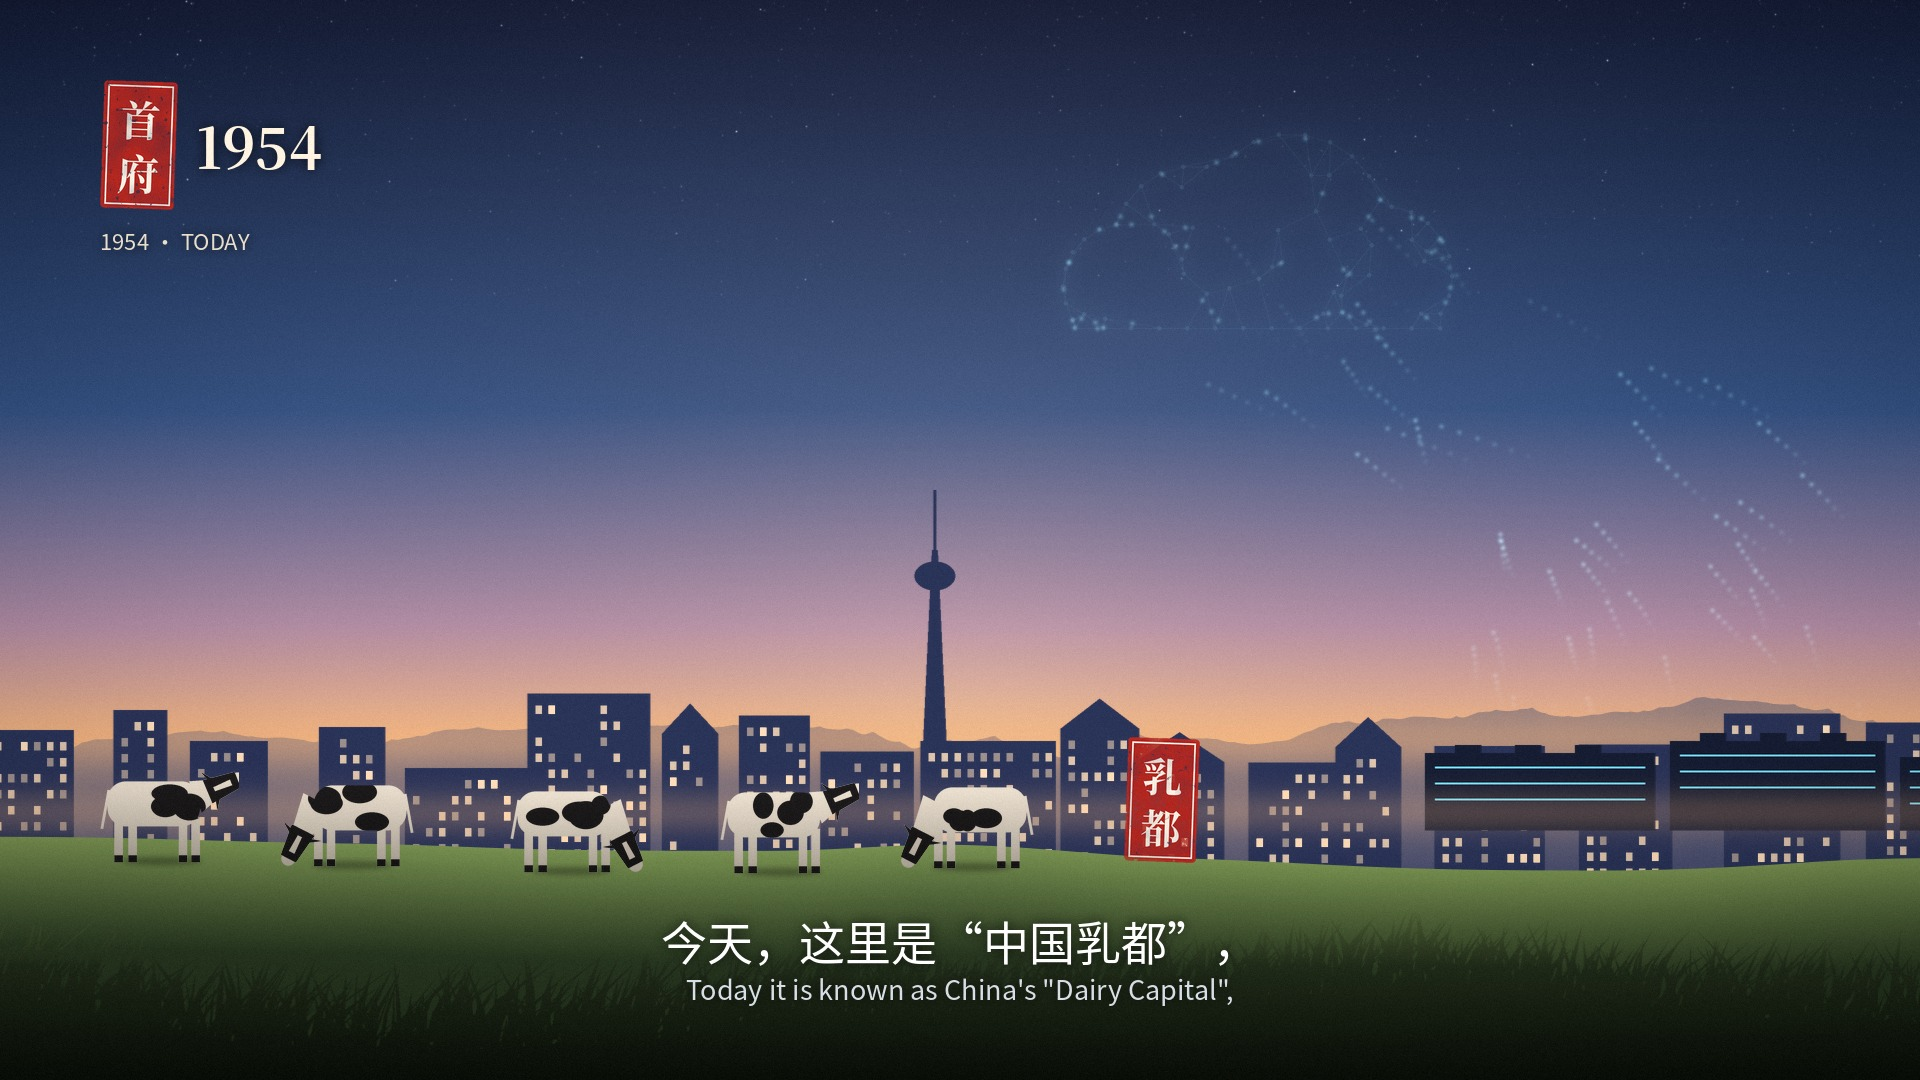
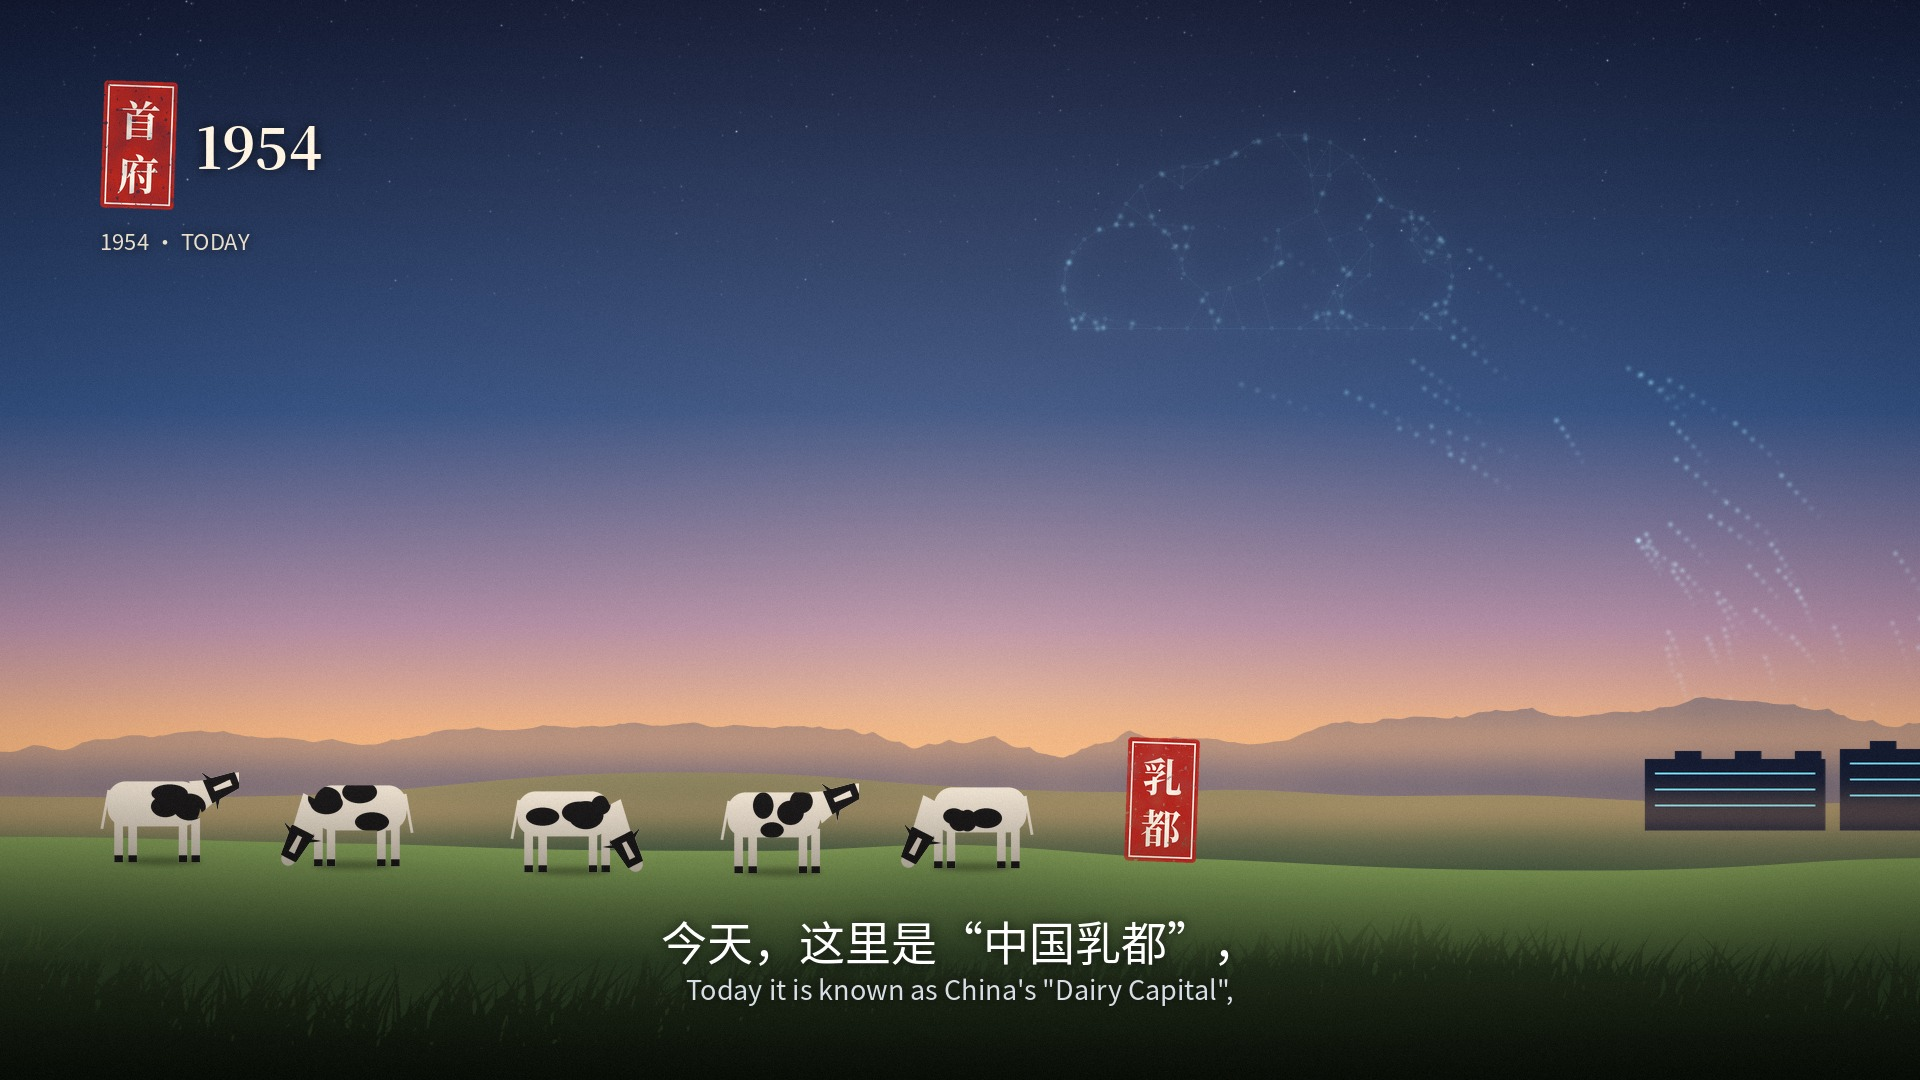
narrated2: 乳都场景去掉背后的城市建筑，数据中心移到画面最右侧
Claude-Session: https://claude.ai/code/session_01VdfstadhBSKPBnt6XvW66x

Changed region(s): [[0.0, 0.5194, 0.5938, 0.7944], [0.625, 0.6417, 1.0, 0.825]]

diff --git a/narrated2/render.py b/narrated2/render.py
@@ -977,17 +977,17 @@ def cow_frames(seed, n=8, sc=1.4):
 
 
 class TodayScene(Scene):
-    """今天：草场上的奶牛（乳都）+ 城市与数据中心，数据汇成天上的一朵「云」（云计算）"""
+    """今天：开阔草场上的奶牛（乳都，背后不放建筑）+ 画面最右侧的数据中心，数据汇成天上的一朵「云」（云计算）"""
     def __init__(self):
         super().__init__()
         self.sky = sky([(0, "#0a1634"), (0.38, "#27497d"), (0.58, "#a9849e"), (0.69, "#f0b07c"), (1, "#f0b07c")])
         hz = C("#f0b07c")
         self.stars = starfield(91, 500, 300)
         far, _ = ridge(92, 712, 45, mix(C("#5a5f80"), hz, 0.35), C("#4a4f70"), 2, ridged=True)
-        city = ModernCity._skyline(self, 93, 800, 28, 105, C("#2a3358"), C("#ffd79a"), 4, tower=True, tower_h=250)
         dc = paint(self._datacenter, 4)
         pasture, self.h_p = ridge(94, 850, 20, C("#7b9452"), C("#2f4226"), 10, octaves=3, f0=0.0012, fade=110)
-        self.layers = [far, haze(740, 30, hz, 0.45), city[0], ModernCity._win(self, city), dc,
+        mid, _ = ridge(97, 790, 26, mix(C("#5d6f52"), hz, 0.35), C("#46573f"), 3, octaves=3, f0=0.0014, fade=80)
+        self.layers = [far, haze(740, 30, hz, 0.45), mid, dc,
                        haze(812, 22, hz, 0.25), pasture, self._cows,
                        grass(95, 1005, C("#86a056"), C("#28361f"), C("#121a0e"), 16, blade=(30, 100), amp=8)]
         self.herd = [(cow_frames(100 + i), wx, fl, ph) for i, (wx, fl, ph) in
@@ -1000,7 +1000,7 @@ class TodayScene(Scene):
 
     def _datacenter(self, d, k):
         body, led = rgb255(C("#161d33")), rgb255(C("#6fd6ff"))
-        for x0, x1, h in [(1470, 1700, 62), (1715, 1930, 74), (1945, 2160, 58)]:
+        for x0, x1, h in [(1690, 1870, 56), (1885, 2060, 66)]:
             d.rectangle([x0 * k, (815 - h) * k, x1 * k, 830 * k], fill=body)
             for j in range(3):
                 y = 815 - h + 14 + j * 16
@@ -1042,7 +1042,7 @@ class TodayScene(Scene):
         self.net = net + gaussian_filter(net, 9) * 2.5
         self.cnodes, self.cedges = P_, list(edges)
         self.k_p = kernel(4)
-        self.streams = [(rng.uniform(1490, 2140), rng.integers(0, len(P_)), rng.random(), rng.uniform(0.25, 0.4))
+        self.streams = [(rng.uniform(1710, 2040), rng.integers(0, len(P_)), rng.random(), rng.uniform(0.25, 0.4))
                         for _ in range(60)]
 
     def _cows(self, f, tl):
